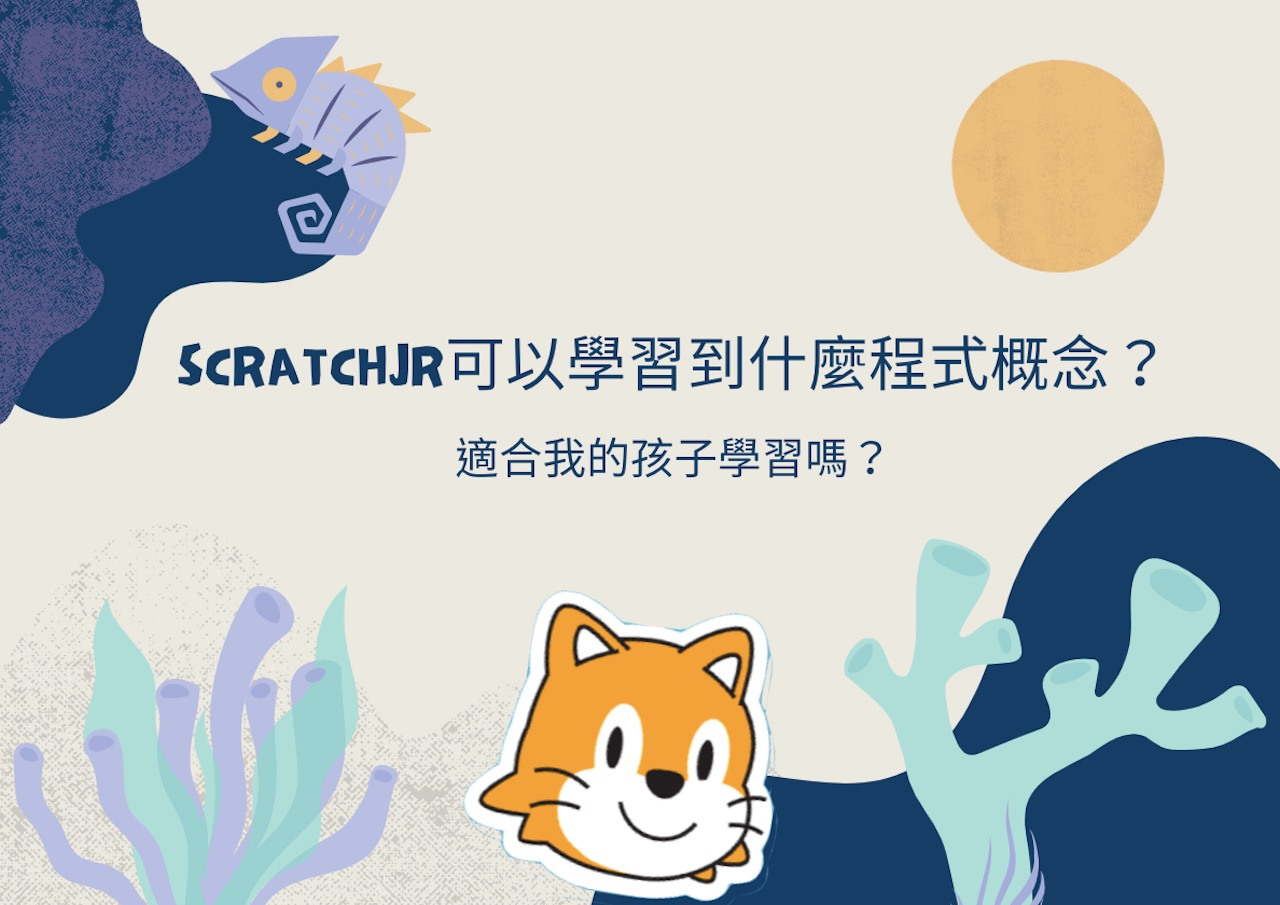
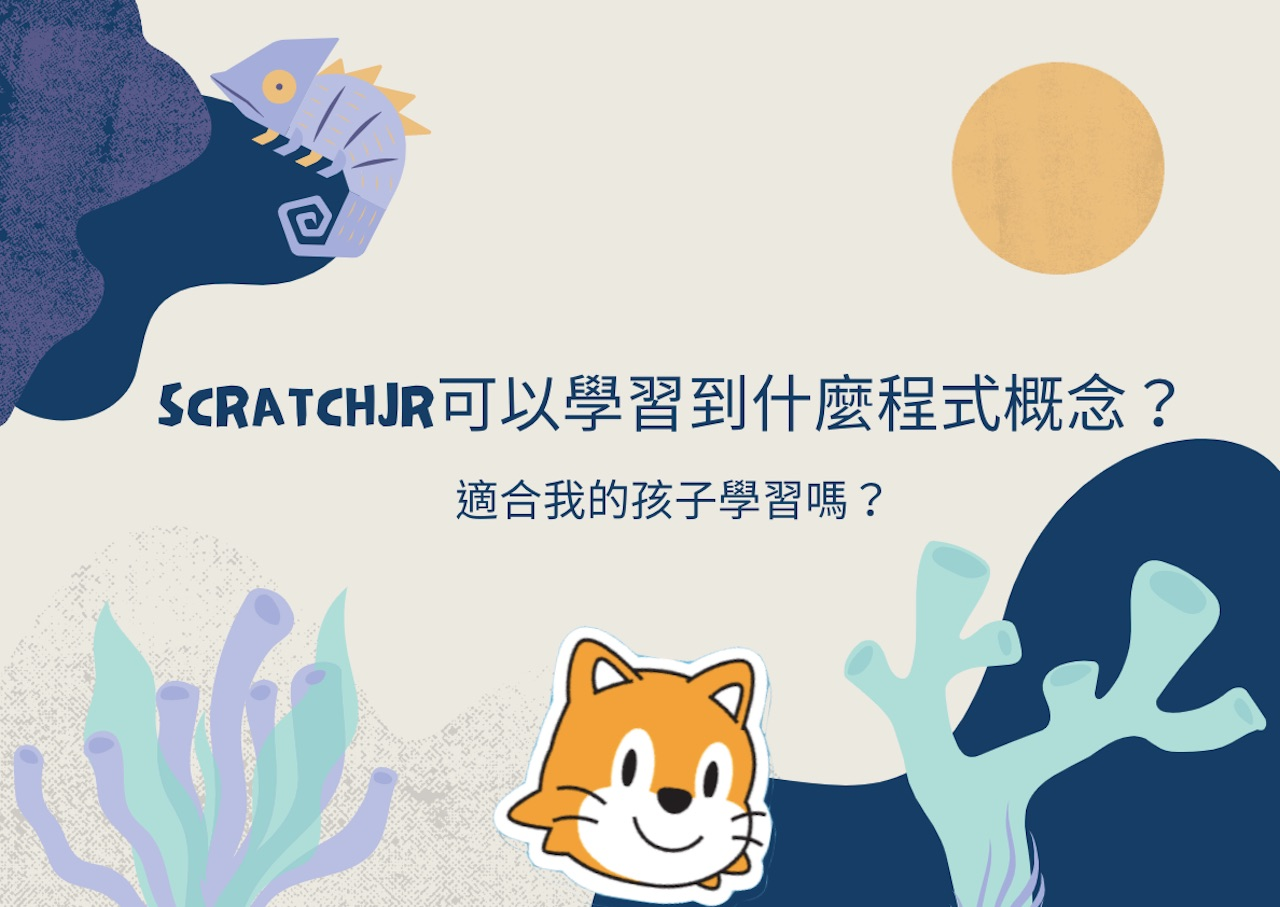
pics c783c2e55350c4b3f68462a5ef6f98df3440d7cc

diff --git a/posts/what_can_learn_from_scratchjr/index.html b/posts/what_can_learn_from_scratchjr/index.html
@@ -14,7 +14,7 @@
 <meta name=twitter:title content="ScratchJr可以學習到什麼程式概念？適合我的孩子學習嗎？">
 <meta name=twitter:description content="ScratchJr可以學習到什麼程式概念？適合我的孩子學習嗎？">
 <meta name=application-name content="程式設計師媽媽，與你分享兒童程式教育的學習資源 | 捷思媽">
-<meta name=apple-mobile-web-app-title content="程式設計師媽媽，與你分享兒童程式教育的學習資源 | 捷思媽"><meta name=theme-color content="#ffffff"><meta name=msapplication-TileColor content="#da532c"><link rel=icon href=/images/favicon.ico><link rel=apple-touch-icon sizes=180x180 href=/apple-touch-icon.png><link rel=mask-icon href=/safari-pinned-tab.svg color=#5bbad5><link rel=manifest href=/site.webmanifest><link rel=canonical href=https://jessmama.github.io/jsmablog/posts/what_can_learn_from_scratchjr/><link rel=next href=https://jessmama.github.io/jsmablog/posts/what_is_the_different_scratch_scratchjr/><link rel=stylesheet href=/jsmablog/css/page.min.css><link rel=stylesheet href=/jsmablog/css/home.min.css><script type=application/ld+json>{"@context":"http://schema.org","@type":"BlogPosting","headline":"ScratchJr可以學習到什麼程式概念？適合我的孩子學習嗎？","inLanguage":"en-us","mainEntityOfPage":{"@type":"WebPage","@id":"https:\/\/jessmama.github.io\/jsmablog\/posts\/what_can_learn_from_scratchjr\/"},"image":[{"@type":"ImageObject","url":"https:\/\/jessmama.github.io\/jsmablog\/posts\/what_can_learn_from_scratchjr\/featured-image-preview.jpg","width":1280,"height":905}],"genre":"posts","keywords":"ScratchJr, 兒童程式教育","wordcount":3,"url":"https:\/\/jessmama.github.io\/jsmablog\/posts\/what_can_learn_from_scratchjr\/","datePublished":"2021-09-14T21:57:21+08:00","dateModified":"2021-09-14T21:57:21+08:00","publisher":{"@type":"Organization","name":"Jess"},"author":{"@type":"Person","name":"Jess"},"description":"ScratchJr可以學習到什麼程式概念？適合我的孩子學習嗎？"}</script></head><body data-header-desktop=fixed data-header-mobile=auto><script>(window.localStorage&&localStorage.getItem('theme')?localStorage.getItem('theme')==='dark':'light'==='auto'?window.matchMedia('(prefers-color-scheme: dark)').matches:'light'==='dark')&&document.body.setAttribute('theme','dark')</script>
+<meta name=apple-mobile-web-app-title content="程式設計師媽媽，與你分享兒童程式教育的學習資源 | 捷思媽"><meta name=theme-color content="#ffffff"><meta name=msapplication-TileColor content="#da532c"><link rel=icon href=/images/favicon.ico><link rel=apple-touch-icon sizes=180x180 href=/apple-touch-icon.png><link rel=mask-icon href=/safari-pinned-tab.svg color=#5bbad5><link rel=manifest href=/site.webmanifest><link rel=canonical href=https://jessmama.github.io/jsmablog/posts/what_can_learn_from_scratchjr/><link rel=next href=https://jessmama.github.io/jsmablog/posts/what_is_the_different_scratch_scratchjr/><link rel=stylesheet href=/jsmablog/css/page.min.css><link rel=stylesheet href=/jsmablog/css/home.min.css><script type=application/ld+json>{"@context":"http://schema.org","@type":"BlogPosting","headline":"ScratchJr可以學習到什麼程式概念？適合我的孩子學習嗎？","inLanguage":"en-us","mainEntityOfPage":{"@type":"WebPage","@id":"https:\/\/jessmama.github.io\/jsmablog\/posts\/what_can_learn_from_scratchjr\/"},"image":[{"@type":"ImageObject","url":"https:\/\/jessmama.github.io\/jsmablog\/posts\/what_can_learn_from_scratchjr\/featured-image-preview.jpg","width":1280,"height":907}],"genre":"posts","keywords":"ScratchJr, 兒童程式教育","wordcount":3,"url":"https:\/\/jessmama.github.io\/jsmablog\/posts\/what_can_learn_from_scratchjr\/","datePublished":"2021-09-14T21:57:21+08:00","dateModified":"2021-09-14T21:57:21+08:00","publisher":{"@type":"Organization","name":"Jess"},"author":{"@type":"Person","name":"Jess"},"description":"ScratchJr可以學習到什麼程式概念？適合我的孩子學習嗎？"}</script></head><body data-header-desktop=fixed data-header-mobile=auto><script>(window.localStorage&&localStorage.getItem('theme')?localStorage.getItem('theme')==='dark':'light'==='auto'?window.matchMedia('(prefers-color-scheme: dark)').matches:'light'==='dark')&&document.body.setAttribute('theme','dark')</script>
 <div id=mask></div><div class=wrapper><header class=desktop id=header-desktop>
 <div class=header-wrapper>
 <div class=header-title>
